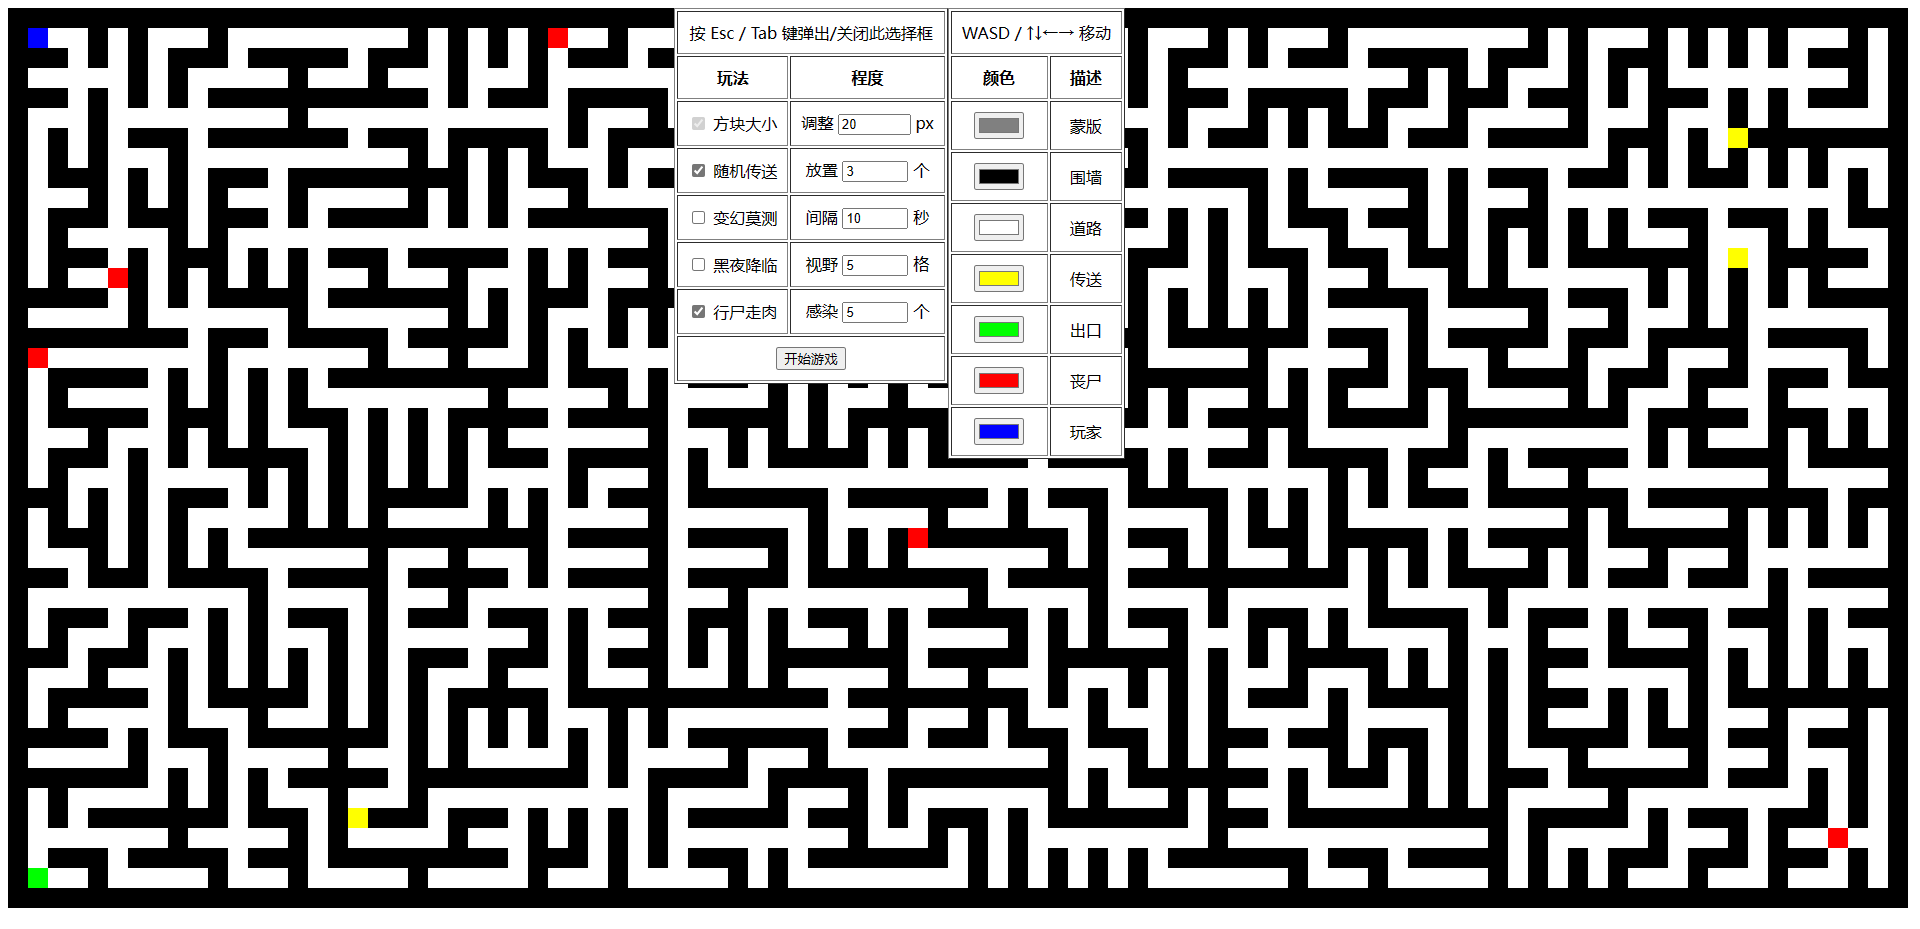
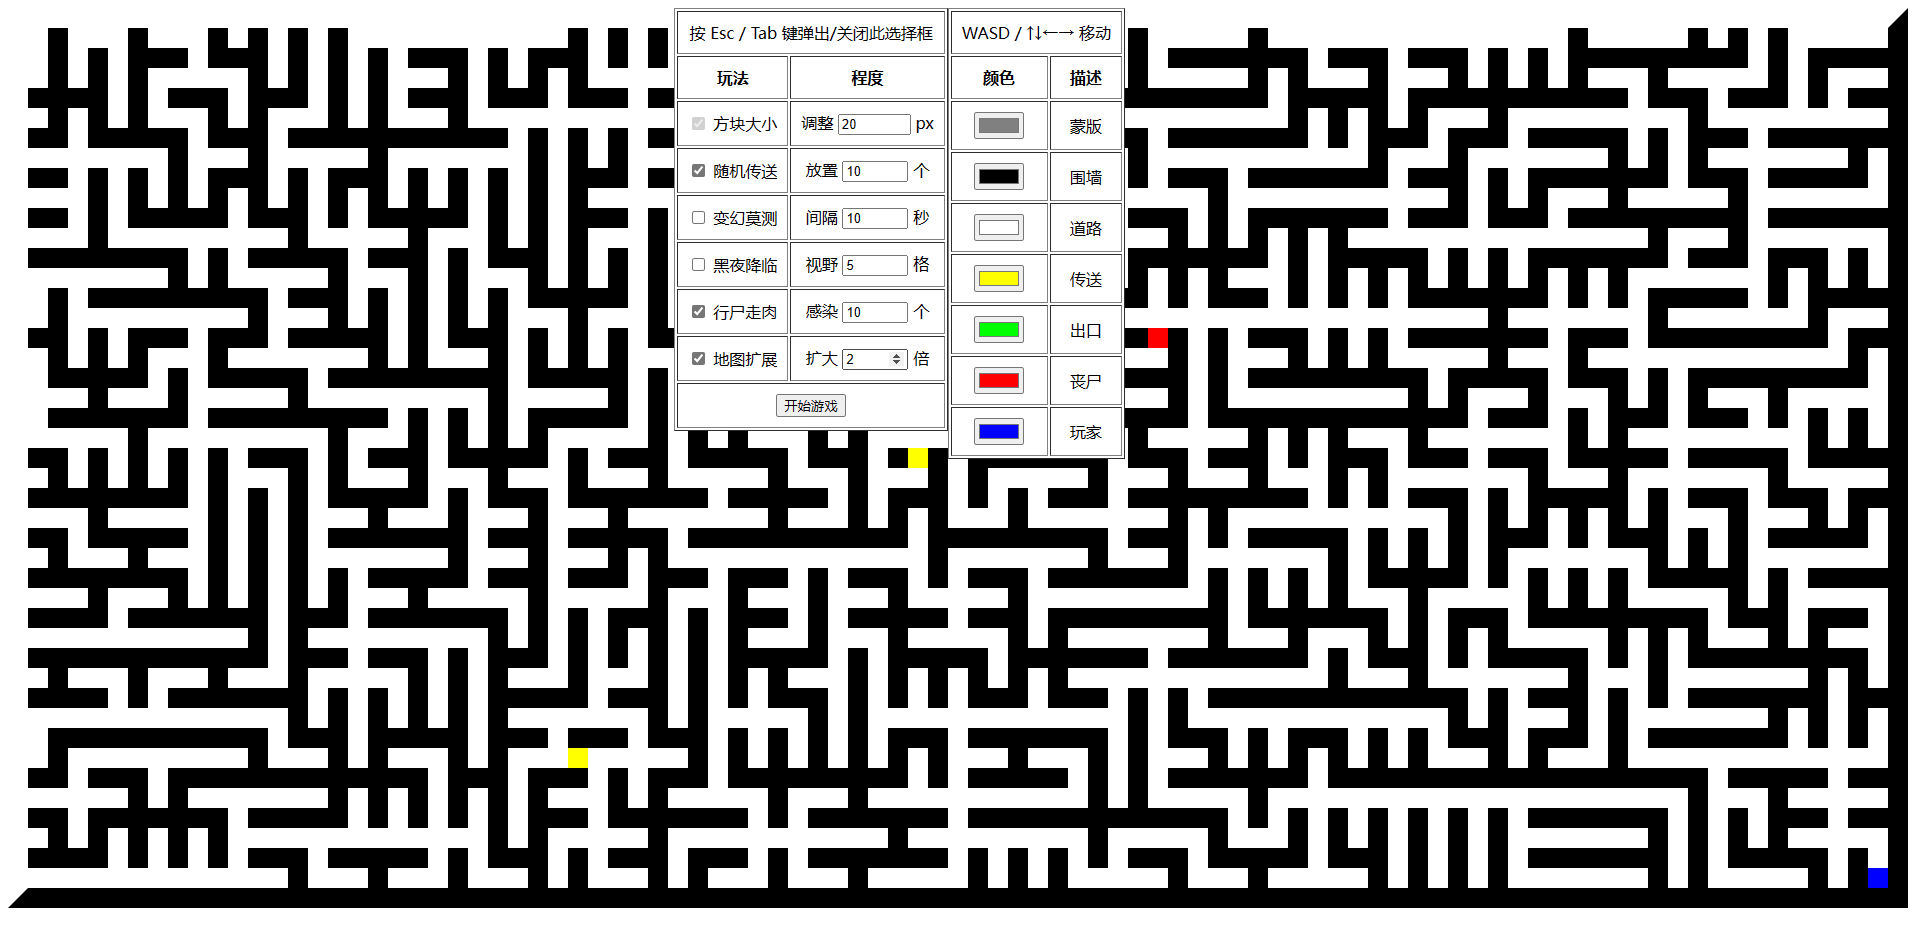
新增玩法：地图扩展

Changed region(s): [[0.0, 0.0, 1.0, 0.9677], [0.5938, 0.2185, 0.625, 0.2497]]

diff --git a/static/js/main.js b/static/js/main.js
@@ -1,8 +1,6 @@
 const
     canvas = document.getElementById("canvas"),
-    canvasContext = canvas.getContext("2d"),
-    mask = document.getElementById("mask"),
-    maskContext = mask.getContext("2d");
+    canvasContext = canvas.getContext("2d");
 
 const
     options = document.getElementById("options"),
@@ -14,7 +12,9 @@ const
     nightCheckBox = document.getElementById("nightCheckBox"),
     nightGrid = document.getElementById("nightGrid"),
     monsterCheckBox = document.getElementById("monsterCheckBox"),
-    monsterCount = document.getElementById("monsterCount");
+    monsterCount = document.getElementById("monsterCount"),
+    extendCheckBox = document.getElementById("extendCheckBox"),
+    extendMultiple = document.getElementById("extendMultiple");
 
 const INFO = {
     MASK: -1,
@@ -28,6 +28,13 @@ const INFO = {
 
 let maze = null;
 
+convertCheckBox.onclick = function () {
+    extendCheckBox.checked = false;
+}
+
+extendCheckBox.onclick = function () {
+    convertCheckBox.checked = false;
+}
 
 function startGame() {
     let legend = {};
@@ -42,42 +49,41 @@ function startGame() {
     let col = Math.floor((window.innerWidth - space * 2) / space);
     col = col % 2 ? col : col - 1;
 
-    canvas.style.border = `${legend[INFO.WALL]} ${space}px solid`;
+    canvas.style.border = `white ${space}px solid`;
     canvas.width = col * space;
     canvas.height = row * space;
 
-    mask.style.border = `${legend[INFO.WALL]} ${space}px solid`;
-    mask.width = col * space;
-    mask.height = row * space;
-
+    let multiple = extendCheckBox.checked ? parseInt(extendMultiple.value) : 1;
     let interval = convertCheckBox.checked ? parseInt(convertSecond.value) : 0;
     let transferCount = randomTransferCheckBox.checked ? limit(row, col, parseInt(randomTransferCount.value)) : 0;
     let viewGrid = nightCheckBox.checked ? limit(row, col, parseInt(nightGrid.value)) : 0;
     let monsters = monsterCheckBox.checked ? limit(row, col, parseInt(monsterCount.value)) : 0;
 
     if (maze) maze.stop();
-    maze = new Maze(canvasContext, maskContext, row, col, space, legend, transferCount, interval, viewGrid, monsters);
+    maze = new Maze(canvas, canvasContext, row, col, space, legend, transferCount, interval, viewGrid, monsters, multiple);
     maze.start();
 
     options.style.display = "none";
     canvas.style.display = "block";
-    mask.style.display = "block";
 
     return false;
 }
 
 class Maze {
-    constructor(mapContext, maskContext, row, col, space, legend, transferCount, interval, viewGrid, monsters) {
+    constructor(mapCanvas, mapContext, row, col, space, legend, transferCount, interval, viewGrid, monsters, multiple) {
+        this.mapCanvas = mapCanvas;
         this.mapContext = mapContext;
-        this.maskContext = maskContext;
         this.y = row;
         this.x = col;
+        this.row = row;
+        this.col = col;
         this.space = space;
         this.legend = legend;
         this.transferCount = transferCount;
         this.interval = interval;
         this.viewGrid = viewGrid;
         this.monsters = monsters;
+        this.multiple = multiple;
 
         this.dir = [[-1, 0], [0, 1], [1, 0], [0, -1]];
         this.now = [0, 0];
@@ -88,6 +94,12 @@ class Maze {
     }
 
     resetMap() {
+        if (this.multiple > 1) {
+            let extendRow = this.y * this.multiple;
+            let extendCol = this.x * this.multiple;
+            this.y = extendRow % 2 ? extendRow : extendRow - 1;
+            this.x = extendCol % 2 ? extendCol : extendCol - 1;
+        }
         this.map = Array(this.y).fill().map(() => Array(this.x).fill(INFO.WALL));
     }
 
@@ -105,6 +117,10 @@ class Maze {
 
     random(min, max) {
         return Math.floor(Math.random() * (max - min + 1)) + min;
+    }
+
+    randomXY() {
+        return [this.random(0, this.x - 1), this.random(0, this.y - 1)];
     }
 
     isSecurityScope(xy) {
@@ -128,7 +144,7 @@ class Maze {
 
         let count = 0;
         while (count !== this.transferCount) {
-            let transferXY = [this.random(0, this.x - 1), this.random(0, this.y - 1)];
+            let transferXY = this.randomXY();
             if (this.getMap(transferXY) === INFO.WALL) {
                 for (let curDir of this.dir) {
                     let diamond = this.turnTo(transferXY, curDir);
@@ -147,7 +163,7 @@ class Maze {
 
         let i = 0;
         while (i !== this.monsters) {
-            let monsterXY = [this.random(0, this.x - 1), this.random(0, this.y - 1)];
+            let monsterXY = this.randomXY();
             if (this.getMap(monsterXY) === INFO.ROAD) {
                 this.setMap(monsterXY, INFO.MONSTER);
                 this.monsterQueue[i] = setTimeout(((who) => this.monsterMove(who, monsterXY))(i), 1000);
@@ -206,7 +222,7 @@ class Maze {
             switch (this.getMap(nextPos)) {
                 case INFO.TRANSFER:
                     while (true) {
-                        nextPos = [this.random(0, this.x - 1), this.random(0, this.y - 1)];
+                        nextPos = this.randomXY();
                         if (this.getMap(nextPos) === INFO.ROAD) break;
                     }
                     break;
@@ -299,20 +315,51 @@ class Maze {
     }
 
     draw() {
-        for (let y = 0; y < this.map.length; y++) {
-            for (let x = 0; x < this.map[y].length; x++) {
-                this.mapContext.fillStyle = this.legend[this.getMap([x, y])];
-                this.mapContext.fillRect(x * this.space, y * this.space, this.space, this.space);
-            }
+        let viewX, viewY;
+        let halfCol = Math.ceil(this.col / 2);
+        let halfRow = Math.ceil(this.row / 2);
+
+        if (this.now[0] < halfCol) {
+            viewX = 0;
+            this.mapCanvas.style.borderLeftColor = this.legend[INFO.WALL];
+        } else if (this.now[0] > this.x - halfCol) {
+            viewX = this.x - this.col;
+            this.mapCanvas.style.borderRightColor = this.legend[INFO.WALL];
+        } else {
+            viewX = this.now[0] - halfCol;
+            this.mapCanvas.style.borderRightColor = "white";
+            this.mapCanvas.style.borderLeftColor = "white";
         }
 
-        if (this.viewGrid) {
-            let viewX = this.now[0] - this.viewGrid;
-            let viewY = this.now[1] - this.viewGrid;
+        if (this.now[1] < halfRow) {
+            viewY = 0;
+            this.mapCanvas.style.borderTopColor = this.legend[INFO.WALL];
+        } else if (this.now[1] > this.y - halfRow) {
+            viewY = this.y - this.row;
+            this.mapCanvas.style.borderBottomColor = this.legend[INFO.WALL];
+        } else {
+            viewY = this.now[1] - halfRow;
+            this.mapCanvas.style.borderTopColor = "white";
+            this.mapCanvas.style.borderBottomColor = "white";
+        }
 
-            this.maskContext.fillStyle = this.legend[INFO.MASK];
-            this.maskContext.fillRect(0, 0, this.x * this.space, this.y * this.space);
-            this.maskContext.clearRect(viewX * this.space, viewY * this.space, (this.viewGrid * 2 + 1) * this.space, (this.viewGrid * 2 + 1) * this.space);
+        for (let y = 0; y < this.row; y++) {
+            for (let x = 0; x < this.col; x++) {
+                let mapX = x + viewX;
+                let mapY = y + viewY;
+                if (
+                    this.viewGrid
+                    && (mapX < (this.now[0] - this.viewGrid)
+                        || mapX > (this.now[0] + this.viewGrid)
+                        || mapY < (this.now[1] - this.viewGrid)
+                        || mapY > (this.now[1] + this.viewGrid)
+                    )) {
+                    this.mapContext.fillStyle = this.legend[INFO.MASK];
+                } else {
+                    this.mapContext.fillStyle = this.legend[this.getMap([mapX, mapY])];
+                }
+                this.mapContext.fillRect(x * this.space, y * this.space, this.space, this.space);
+            }
         }
     }
 
@@ -332,6 +379,8 @@ class Maze {
     }
 
     stop() {
+        window.removeEventListener("keydown", keyDown, true);
+
         clearTimeout(this.timer);
         this.timer = null;
 
@@ -342,8 +391,6 @@ class Maze {
     }
 
     gameOver(msg) {
-        window.removeEventListener("keydown", keyDown, true);
-
         this.stop();
         if (confirm(msg + "\n是否继续以当前设置开始新的迷宫？")) {
             this.start();

diff --git a/index.html b/index.html
@@ -9,7 +9,6 @@
 <body>
 
 <canvas id="canvas"></canvas>
-<canvas id="mask"></canvas>
 
 <div id="options">
     <form id="gameForm" onsubmit="return startGame()">
@@ -42,6 +41,10 @@
             <tr>
                 <td><label><input type="checkbox" id="monsterCheckBox"> 行尸走肉</label></td>
                 <td><label>感染 <input type="number" min="1" max="99" value="3" id="monsterCount"> 个</label></td>
+            </tr>
+            <tr>
+                <td><label><input type="checkbox" id="extendCheckBox"> 地图扩展</label></td>
+                <td><label>扩大 <input type="number" min="2" max="10" value="2" id="extendMultiple"> 倍</label></td>
             </tr>
             <tr>
                 <td colspan="2">

diff --git a/static/css/main.css b/static/css/main.css
@@ -22,7 +22,6 @@ table tr td div {
 }
 
 canvas {
-    border: black solid;
     position: absolute;
     display: none;
 }
@@ -30,6 +29,10 @@ canvas {
 a {
     text-decoration-line: none;
     float: right;
+}
+
+input {
+    cursor: pointer;
 }
 
 #options {
